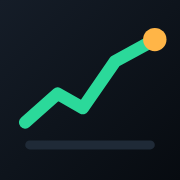
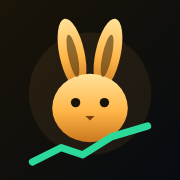
Rename to GoldRabbit, version in header, return audit (v2.9)
- New name and gold rabbit icon; version badge next to the name opens
  What's new
- Request Twelve Data history with adjust=splits so past prices aren't
  lowered for dividends (matches Yahoo price charts); falls back if the
  API rejects the option. Cached history reloads once.
- 'How these returns are calculated' card lists the exact start date
  and close behind 1W-5Y; returns still on Finnhub estimates show ≈
- Header fits a 390px screen; day range hidden when high equals low

Claude-Session: https://claude.ai/code/session_01RxR8VREVTMse4bbd87dQhJ

diff --git a/index.html b/index.html
@@ -6,12 +6,12 @@
 <meta name="apple-mobile-web-app-capable" content="yes">
 <meta name="mobile-web-app-capable" content="yes">
 <meta name="apple-mobile-web-app-status-bar-style" content="black-translucent">
-<meta name="apple-mobile-web-app-title" content="TickerDeck">
+<meta name="apple-mobile-web-app-title" content="GoldRabbit">
 <meta name="theme-color" content="#070B10">
 <link rel="apple-touch-icon" href="icon-180.png">
 <link rel="icon" href="icon-192.png">
 <link rel="manifest" href="manifest.json">
-<title>TickerDeck Live</title>
+<title>GoldRabbit</title>
 <link rel="preconnect" href="https://fonts.googleapis.com">
 <link rel="preconnect" href="https://fonts.gstatic.com" crossorigin>
 <link rel="stylesheet" href="https://fonts.googleapis.com/css2?family=Sora:wght@400;600;700;800&family=JetBrains+Mono:wght@400;600&display=swap">
@@ -41,8 +41,9 @@ button:focus-visible,input:focus-visible,select:focus-visible,a:focus-visible{ou
 .wrap>*{position:relative;z-index:1}
 
 header.top{display:flex;align-items:center;justify-content:space-between;gap:10px;padding-top:14px}
-.brand h1{margin:0;font-size:27px;font-weight:800;letter-spacing:-.03em;display:flex;align-items:center;gap:8px}
+.brand h1{margin:0;font-size:23px;font-weight:800;letter-spacing:-.03em;display:flex;align-items:center;gap:8px}
 .brand h1 span{color:var(--accent)}
+.hver{font:600 10.5px var(--mono);color:var(--muted);background:var(--panel2);border:1px solid var(--line);border-radius:6px;padding:2px 6px;letter-spacing:0;align-self:center}
 .live{font:700 10px var(--display);letter-spacing:.12em;padding:3px 7px;border-radius:6px;background:var(--panel2);color:var(--faint);border:1px solid var(--line);display:inline-flex;align-items:center;gap:5px}
 .live i{width:6px;height:6px;border-radius:50%;background:currentColor}
 .live.on{color:var(--gain);border-color:rgba(43,217,154,.35);background:var(--gain-bg)}
@@ -52,7 +53,8 @@ header.top{display:flex;align-items:center;justify-content:space-between;gap:10p
 .status{display:flex;align-items:center;gap:6px;font-size:12px;color:var(--muted);margin-top:3px}
 .dot{width:7px;height:7px;border-radius:50%;background:var(--faint);flex:none}
 .dot.open{background:var(--gain)} .dot.ext{background:var(--accent)}
-.hdr-actions{display:flex;gap:6px}
+.hdr-actions{display:flex;gap:5px}
+.hdr-actions .iconbtn{width:36px;height:36px}
 .iconbtn{width:40px;height:40px;border-radius:12px;background:var(--panel2);border:1px solid var(--line);display:grid;place-items:center;font-size:18px;flex:none}
 .iconbtn svg{width:19px;height:19px}
 .iconbtn.on{background:var(--accent);color:#1b1204;border-color:var(--accent)}
@@ -356,7 +358,7 @@ header.top{display:flex;align-items:center;justify-content:space-between;gap:10p
 <!-- onboarding -->
 <div class="wrap" id="onb" hidden>
   <div class="onb">
-    <h2>Ticker<span>Deck</span> Live</h2>
+    <h2>Gold<span>Rabbit</span></h2>
     <p class="hint" style="font-size:15px">Real-time stock prices that stream in while the app is open. It runs on a free market-data key from Finnhub, and the key stays on this phone.</p>
     <ol class="steps">
       <li><span>Open <a href="https://finnhub.io/register" target="_blank" rel="noopener">finnhub.io/register</a> and create a free account.</span></li>
@@ -368,7 +370,7 @@ header.top{display:flex;align-items:center;justify-content:space-between;gap:10p
       <button class="primary" type="submit">Start</button>
     </form>
     <p class="err" id="keyErr"></p>
-    <p class="hint">Tip: in Safari, tap Share, then <b>Add to Home Screen</b>, and TickerDeck opens full screen like an app.</p>
+    <p class="hint">Tip: in Safari, tap Share, then <b>Add to Home Screen</b>, and GoldRabbit opens full screen like an app.</p>
   </div>
 </div>
 
@@ -376,7 +378,7 @@ header.top{display:flex;align-items:center;justify-content:space-between;gap:10p
 <div class="wrap" id="app" hidden>
   <header class="top">
     <div class="brand">
-      <h1><span style="color:var(--text)">Ticker<span>Deck</span></span><em class="live" id="liveTag"><i></i><b id="liveTxt">OFF</b></em></h1>
+      <h1><span style="color:var(--text)">Gold<span>Rabbit</span></span><button class="hver" data-open-versions aria-label="Version and what's new" id="hVer">v</button><em class="live" id="liveTag"><i></i><b id="liveTxt">OFF</b></em></h1>
       <div class="status"><i class="dot" id="mktDot"></i><span id="mktText">Checking market…</span></div>
     </div>
     <div class="hdr-actions">
@@ -511,8 +513,11 @@ function td(syms,params){
   const run=async()=>{
     for(;;){ const now=Date.now(); while(tdLog.length&&now-tdLog[0]>61000) tdLog.shift(); if(tdLog.length+syms.length<=8) break; await sleep(61000-(now-tdLog[0])+250); }
     syms.forEach(()=>tdLog.push(Date.now()));
-    const r=await fetch(`${TD}/time_series?symbol=${syms.map(encodeURIComponent).join(",")}&${params}&country=United%20States&apikey=${encodeURIComponent(S.tdKey)}`);
-    const j=await r.json();
+    // adjust=splits: prices corrected for stock splits but not lowered for past dividends, matching
+    // Yahoo's price charts. If the API rejects an option, drop it and try again.
+    const url=()=>`${TD}/time_series?symbol=${syms.map(encodeURIComponent).join(",")}&${params}${S.noCountry?"":"&country=United%20States"}${S.noAdjust?"":"&adjust=splits"}&apikey=${encodeURIComponent(S.tdKey)}`;
+    let j=await (await fetch(url())).json();
+    for(let k=0;k<2&&j&&j.status==="error"&&/adjust|country/i.test(j.message||"");k++){ if(/adjust/i.test(j.message)) S.noAdjust=true; else S.noCountry=true; j=await (await fetch(url())).json(); }
     if(j&&j.status==="error"){ S.tdErr=j.code===401||j.code===403?"key":j.code===429?"rate":"other"; throw new Error(j.message); }
     S.tdErr=null; return syms.length===1?{[syms[0]]:j}:j; };
   const p=tdQueue.then(run,run); tdQueue=p.catch(()=>{}); return p;
@@ -521,11 +526,11 @@ function parseET(str){ const [d,t="16:00:00"]=str.split(" "); const [y,mo,dd]=d.
 const chunks=(a,n)=>{ const o=[]; for(let i=0;i<a.length;i+=n) o.push(a.slice(i,i+n)); return o; };
 async function loadDaily(force){
   if(!S.tdKey) return;
-  const need=[...new Set(["SPY"].concat(S.list,["QQQ"]))].filter(s=>force||!S.daily[s]||S.daily[s].day!==today()||!S.daily[s].v3);
+  const need=[...new Set(["SPY"].concat(S.list,["QQQ"]))].filter(s=>force||!S.daily[s]||S.daily[s].day!==today()||!S.daily[s].v4);
   for(const grp of chunks(need,8)){
     try{ const res=await td(grp,"interval=1day&outputsize=460");
       grp.forEach(s=>{ const r=res[s]; if(!okTD(r)) return;
-        S.daily[s]={day:today(),v3:1,c:r.values.map(v=>[parseET(v.datetime),+v.close,+v.volume||0]).reverse()}; });
+        S.daily[s]={day:today(),v4:1,c:r.values.map(v=>[parseET(v.datetime),+v.close,+v.volume||0]).reverse()}; });
       LS.set("daily",S.daily); render(); if(S.open&&S.daily[S.open]) redrawChart(true);
     }catch(e){ render(); if(S.tdErr==="key") return; }
   }
@@ -563,7 +568,7 @@ function shortSeries(s,range){
   let last=bars[bars.length-1][0]; (S.ticks[s]&&S.ticks[s].pts||[]).forEach(t=>{ if(t[0]>=last+step){ bars.push([t[0],t[1],0]); last=t[0]; } });
   if(p) bars.push([Math.max(Date.now(),last+1),p,0]);
   const t0=bars[0][0];
-  return {pts:bars.map((b,i)=>[t0+i*step,b[1],b[2]||0,b[0]]),base:bars[0][1],short:true};
+  return {pts:bars.map((b,i)=>[t0+i*step,b[1],b[2]||0,b[0]]),base:bars[0][1],baseT:bars[0][0],short:true};
 }
 async function loadShort(list,range){
   if(!S.tdKey) return;
@@ -581,7 +586,7 @@ function longSeries(s,range){
   if(range==="5y"&&i>0) i--;
   const pts=bars.slice(i).map(b=>[b[0],b[1],b[2]||0]), p=price(s);
   if(p) pts.push([Date.now(),p,0]);
-  return {pts,base:pts[0][1],long:true};
+  return {pts,base:pts[0][1],baseT:pts[0][0],long:true};
 }
 function seriesFor(s,range){
   if(range==="5y"||range==="all") return longSeries(s,range);
@@ -600,7 +605,7 @@ function seriesFor(s,range){
   const baseBar=i>0?c[i-1]:c[i];
   let pts=c.slice(i);
   if(p){ const last=pts[pts.length-1]; if(last&&new Date(last[0]).toDateString()===new Date().toDateString()) pts[pts.length-1]=[last[0],p,last[2]]; else pts.push([Date.now(),p,0]); }
-  return {pts:[baseBar].concat(pts),base:baseBar[1]};
+  return {pts:[baseBar].concat(pts),base:baseBar[1],baseT:baseBar[0]};
 }
 // without price history, connect Finnhub's return figures (1Y, 6M, 3M, YTD, MTD ago) into a coarse line
 function checkpoints(s,range){
@@ -981,6 +986,7 @@ function render(){
   $("wakeBtn").classList.toggle("on",!!S.wake);
   $("privBtn").classList.toggle("on",S.priv); $("privBtn").setAttribute("aria-pressed",S.priv);
   $("soundBtn").classList.toggle("on",S.sound); $("soundBtn").setAttribute("aria-pressed",S.sound);
+  const hv=$("hVer"); if(hv) hv.textContent="v"+APP_VERSION;
   renderLive(); renderBanners(); hero(); tape(); renderList(); renderHeat(); renderBoard(); renderFoot();
   document.querySelectorAll("#seg button").forEach(b=>b.setAttribute("aria-pressed",b.dataset.tf===S.tf));
   document.querySelectorAll(".viewtoggle button").forEach(b=>b.setAttribute("aria-pressed",b.dataset.view===S.view));
@@ -989,17 +995,30 @@ function render(){
 }
 
 /* ---------- detail ---------- */
-function rangeBar(lo,hi,v,label,id){ if(!(lo&&hi&&v!=null)) return ""; const pct=Math.max(0,Math.min(100,(v-lo)/(hi-lo)*100));
+function rangeBar(lo,hi,v,label,id){ if(!(lo&&hi&&v!=null)||hi<=lo) return ""; const pct=Math.max(0,Math.min(100,(v-lo)/(hi-lo)*100));
   return `<div class="range"><div class="range-lab"><span>${label}</span><span class="num" id="${id}P">${pct.toFixed(0)}% of range</span></div><div class="range-bar"><i id="${id}" style="left:${pct}%"></i></div><div class="range-lab num"><span>${fmt$(lo)}</span><span>${fmt$(hi)}</span></div></div>`; }
-function perfTiles(s){ return [["1D","1d"],[S.daily[s]?"1M":"MTD",S.daily[s]?"1m":"mtd"],["3M","3m"],["6M","6m"],["1Y","1y"]].map(([l,k])=>{const v=ret(s,k);return `<div><b>${l}</b><span class="num ${tcls(v)}">${fmtP(v)}</span></div>`;}).join(""); }
+function perfTiles(s){ return [["1D","1d"],[S.daily[s]?"1M":"MTD",S.daily[s]?"1m":"mtd"],["3M","3m"],["6M","6m"],["1Y","1y"]].map(([l,k])=>{const v=ret(s,k), est=k!=="1d"&&!S.daily[s]&&v!=null;return `<div><b>${l}</b><span class="num ${tcls(v)}">${est?"≈":""}${fmtP(v)}</span></div>`;}).join(""); }
+// where each return comes from: start date, start price, now, and the data source
+function retAudit(s){
+  const p=price(s); if(p==null) return "";
+  const rows=[["1W","1w"],["1M","1m"],["3M","3m"],["6M","6m"],["YTD","ytd"],["1Y","1y"],["5Y","5y"]].map(([l,k])=>{
+    const ser=seriesFor(s,k), v=ret(s,k);
+    if(ser&&ser.base&&ser.baseT&&!ser.approx) return `<div class="kv"><span>${l} · from ${fmt$(ser.base)} on ${new Date(ser.baseT).toLocaleDateString([], {month:"short",day:"numeric",year:"numeric"})}</span><b class="num ${tcls(v)}">${fmtP(v)}</b></div>`;
+    if(v!=null) return `<div class="kv"><span>${l} · ≈ Finnhub ${k==="6m"?"26-week":k==="1y"?"52-week":k==="3m"?"13-week":k==="ytd"?"year-to-date":""} figure</span><b class="num ${tcls(v)}">≈${fmtP(v)}</b></div>`;
+    return ""; }).join("");
+  return rows?`<div class="card"><h4>How these returns are calculated</h4>
+    <p class="hint">Current price ${fmt$(p)} compared with the closing price on the same calendar date in the past (the last close before it on weekends and holidays).</p>${rows}
+    <p class="hint" style="font-size:11.5px">Price change only, adjusted for stock splits, like Yahoo Finance charts. Yahoo's "Performance Overview" box adds dividends, so it reads slightly higher for dividend payers. ≈ means price history hasn't loaded yet and Finnhub's own figure is shown.</p></div>`:"";
+}
 function patchDetail(s){
   const p=price(s), q=S.quotes[s]; if(p==null) return;
   const big=$("dBig"); if(big){ const old=parseFloat(big.dataset.v); big.textContent=fmt$(p); big.dataset.v=p; if(old&&old!==p){ big.classList.remove("tu","td"); void big.offsetWidth; big.classList.add(p>old?"tu":"td"); setTimeout(()=>big.classList.remove("tu","td"),350);} }
   const r=r1d(s), pill=$("dPill"); if(pill){ pill.textContent=fmtP(r)+(marketState().phase==="open"?" today":" at close"); pill.className="pill "+cls(r); }
   const dx=$("dExt"); if(dx) dx.innerHTML=extDetail(s);
   const pf=$("dPerf"); if(pf) pf.innerHTML=perfTiles(s);
+  const au=$("dAudit"); if(au&&!S.scrubbing&&Date.now()-(au._t||0)>3000){ au._t=Date.now(); au.innerHTML=retAudit(s); }
   redrawChart(false);
-  const m=S.metric[s]&&S.metric[s].m||{}; const upd=(id,lo,hi)=>{ const el=$(id); if(el&&lo&&hi){ const pct=Math.max(0,Math.min(100,(p-lo)/(hi-lo)*100)); el.style.left=pct+"%"; $(id+"P").textContent=pct.toFixed(0)+"% of range"; } };
+  const m=S.metric[s]&&S.metric[s].m||{}; const upd=(id,lo,hi)=>{ const el=$(id); if(el&&lo&&hi&&hi>lo){ const pct=Math.max(0,Math.min(100,(p-lo)/(hi-lo)*100)); el.style.left=pct+"%"; $(id+"P").textContent=pct.toFixed(0)+"% of range"; } };
   upd("r52",m["52WeekLow"],m["52WeekHigh"]); if(q) upd("rDay",Math.min(q.l,p),Math.max(q.h,p));
   const pos=$("dPos"); if(pos) pos.innerHTML=posHTML(s);
 }
@@ -1019,6 +1038,7 @@ async function openDetail(s){
     <div class="perf" id="dPerf">${perfTiles(s)}</div>
     <div id="dAn" style="display:flex;flex-direction:column;gap:16px">${analyticsHTML(s)}</div>
     <div id="dSea">${seasonHTML(s)}</div>
+    <div id="dAudit">${retAudit(s)}</div>
     <div id="dDiv">${divHTML(s)}</div>
     <div style="display:grid;grid-template-columns:1fr auto;gap:8px"><a class="claude" id="askOne" href="${claudeURL(stockPrompt(s))}" target="_blank" rel="noopener">✨ Ask Claude about ${esc(s)}</a><button class="ghost" style="height:46px;border-radius:14px" data-compare="${esc(s)}">⇄ Compare</button></div>
     <div class="card">${rangeBar(q&&Math.min(q.l,p),q&&Math.max(q.h,p),p,"Day range","rDay")}${rangeBar(m["52WeekLow"],m["52WeekHigh"],p,"52-week range","r52")}
@@ -1177,13 +1197,13 @@ function summaryText(){
 }
 async function shareSummary(){
   const text=summaryText();
-  try{ if(navigator.share){ await navigator.share({title:"TickerDeck",text}); return; } }catch(e){ if(e&&e.name==="AbortError") return; }
+  try{ if(navigator.share){ await navigator.share({title:"GoldRabbit",text}); return; } }catch(e){ if(e&&e.name==="AbortError") return; }
   try{ await navigator.clipboard.writeText(text); toast("Summary copied"); }catch(e){ toast("Couldn't share on this device"); }
 }
 async function toggleWake(){
   if(S.wake){ S.wakeWant=false; try{ await S.wake.release(); }catch(e){} S.wake=null; toast("Screen can sleep again"); render(); return; }
   if(!("wakeLock" in navigator)){ toast("Keep-awake isn't supported on this device"); return; }
-  try{ S.wake=await navigator.wakeLock.request("screen"); S.wakeWant=true; S.wake.addEventListener("release",()=>{ S.wake=null; render(); }); toast("Screen stays on while TickerDeck is open"); }catch(e){ toast("Couldn't keep the screen on"); }
+  try{ S.wake=await navigator.wakeLock.request("screen"); S.wakeWant=true; S.wake.addEventListener("release",()=>{ S.wake=null; render(); }); toast("Screen stays on while GoldRabbit is open"); }catch(e){ toast("Couldn't keep the screen on"); }
   render();
 }
 function forget(){ $("tabbar").hidden=true; disconnect(); S.key=""; LS.set("key",""); showOnb(); }
@@ -1353,8 +1373,9 @@ function renderCompare(){
 }
 
 /* ---------- version history ---------- */
-const APP_VERSION="2.8";
+const APP_VERSION="2.9";
 const CHANGELOG=[
+  {v:"2.9",date:"2026-10-08",title:"GoldRabbit",items:["TickerDeck is now GoldRabbit, with a new icon","Version number shown next to the name; tap it for what's new","Price history requested split-adjusted only (no dividend adjustment) to match Yahoo Finance charts","New \"How these returns are calculated\" card on each stock shows the exact start date and price behind 1W to 5Y","≈ marks returns that are still Finnhub estimates while history loads"]},
   {v:"2.8",date:"2026-10-08",title:"Accurate long-range returns",items:["Price history now always comes from the US listing in US dollars; some tickers also trade abroad and could load the wrong market","1W to 5Y periods use the same calendar date (e.g. 6 months ago today) and compare to the close on that date, matching Yahoo Finance","5Y starts from the right week","Without the history key, returns no longer count the last day's move twice outside market hours","Cached history reloads once to pick up the fixes"]},
   {v:"2.7",date:"2026-10-08",title:"Pre-market and after hours",items:["Pre-market (4:00–9:30 AM ET) and after-hours (4:00–8:00 PM ET) prices shown separately under the regular close, like CNN","PRE / AH lines on every watchlist row and the index tiles","Pre-market and after-hours movers list on Home and in the daily briefing","Stock page shows the extended-hours price, change and time of the last trade","Turn it off in Settings"]},
   {v:"2.6",date:"2026-10-08",title:"More time frames everywhere",items:["AI, Space, Sectors and Trends pages now have 1D, 1W, 2W, 1M, 3M, 6M, YTD, 1Y, 5Y and All","Home watchlist adds 1W and 5Y","Shows how many stocks have loaded so far on each page","Missing prices retry automatically every 30 seconds","Solid bar behind the iPhone status bar when scrolling"]},
@@ -1367,12 +1388,12 @@ const CHANGELOG=[
   {v:"1.3",date:"2026-10-07",title:"Market context",items:["Live S&P 500, Nasdaq, Dow and Russell tiles","Big daily move alerts","Earnings calendar and market news","S&P 500 comparison line, insider trades, similar companies","Share summary, keep screen on, pull to refresh"]},
   {v:"1.2",date:"2026-10-07",title:"Trend line fix",items:["Mini charts draw a real trend that matches the return shown"]},
   {v:"1.1",date:"2026-10-07",title:"Price history",items:["1D to 1Y charts with touch scrubbing and volume (Twelve Data)","Exact 1M / 6M / 1Y / YTD returns from closing prices"]},
-  {v:"1.0",date:"2026-10-07",title:"TickerDeck Live",items:["Real-time prices streamed from Finnhub","Watchlist with add, remove, sort, heatmap and leaderboard","Price alerts, holdings and cost basis, market clock with holidays","Logos, analyst ratings, news and installable iPhone app"]}
+  {v:"1.0",date:"2026-10-07",title:"First release (as TickerDeck Live)",items:["Real-time prices streamed from Finnhub","Watchlist with add, remove, sort, heatmap and leaderboard","Price alerts, holdings and cost basis, market clock with holidays","Logos, analyst ratings, news and installable iPhone app"]}
 ];
 function openVersions(){
   S.open="__versions";
   $("sheetIn").innerHTML=`<div class="grab"></div>
-    <div class="d-head"><div><h3>What's new</h3><p>TickerDeck v${APP_VERSION}</p></div><button class="iconbtn close" data-close aria-label="Close">✕</button></div>
+    <div class="d-head"><div><h3>What's new</h3><p>GoldRabbit v${APP_VERSION}</p></div><button class="iconbtn close" data-close aria-label="Close">✕</button></div>
     <div class="card" style="gap:0">${CHANGELOG.map(c=>`<div class="ver"><div style="display:flex;align-items:center;gap:8px;flex-wrap:wrap"><span class="vtag">v${c.v}</span><b>${esc(c.title)}</b><span class="hint" style="margin-left:auto">${new Date(c.date+"T12:00:00").toLocaleDateString([], {month:"short",day:"numeric",year:"numeric"})}</span></div><ul>${c.items.map(i=>`<li>${esc(i)}</li>`).join("")}</ul></div>`).join("")}</div>
     <a class="hint" href="https://github.com/WolfTronixSD/tickerdeck/commits/main" target="_blank" rel="noopener" style="color:var(--accent)">Full change history on GitHub ↗</a>`;
   LS.set("seenVer",APP_VERSION); renderBanners(); showSheet();
@@ -1384,10 +1405,10 @@ const MONTHS=["Jan","Feb","Mar","Apr","May","Jun","Jul","Aug","Sep","Oct","Nov",
 S.weekly=LS.get("weekly",{});
 async function loadWeekly(list){
   if(!S.tdKey) return;
-  const need=list.filter(x=>!S.weekly[x]||S.weekly[x].day!==today()||!S.weekly[x].v3);
+  const need=list.filter(x=>!S.weekly[x]||S.weekly[x].day!==today()||!S.weekly[x].v4);
   for(const grp of chunks(need,8)){
     try{ const res=await td(grp,"interval=1week&outputsize=265");
-      grp.forEach(x=>{ const r=res[x]; if(okTD(r)) S.weekly[x]={day:today(),v3:1,bars:r.values.map(v=>[parseET(v.datetime),+v.close,+v.volume||0]).reverse()}; });
+      grp.forEach(x=>{ const r=res[x]; if(okTD(r)) S.weekly[x]={day:today(),v4:1,bars:r.values.map(v=>[parseET(v.datetime),+v.close,+v.volume||0]).reverse()}; });
       try{ LS.set("weekly",S.weekly); }catch(e){}
       if(S.tab==="home"&&!S.open) render(); else scheduleTab();
     }catch(e){ if(S.tdErr==="key") return; }
@@ -1395,13 +1416,13 @@ async function loadWeekly(list){
 }
 async function loadMonthly(list){
   if(!S.tdKey) return;
-  const need=list.filter(x=>!S.monthly[x]||!S.monthly[x].bars||!S.monthly[x].v3||Date.now()-S.monthly[x].at>20*864e5);
+  const need=list.filter(x=>!S.monthly[x]||!S.monthly[x].bars||!S.monthly[x].v4||Date.now()-S.monthly[x].at>20*864e5);
   for(const grp of chunks(need,8)){
     try{ const res=await td(grp,"interval=1month&outputsize=5000");
       grp.forEach(x=>{ const r=res[x]; if(!okTD(r)) return;
         const v=r.values.slice().reverse(), rets=[]; const nowKey=today().slice(0,7);
         for(let i=1;i<v.length;i++){ const ym=v[i].datetime.slice(0,7); if(ym===nowKey) continue; rets.push([+ym.slice(0,4),+ym.slice(5,7)-1,(+v[i].close/+v[i-1].close-1)*100]); }
-        S.monthly[x]={at:Date.now(),v3:1,rets,bars:v.map(b=>[parseET(b.datetime),+(+b.close).toPrecision(6),Math.round(+b.volume||0)])}; });
+        S.monthly[x]={at:Date.now(),v4:1,rets,bars:v.map(b=>[parseET(b.datetime),+(+b.close).toPrecision(6),Math.round(+b.volume||0)])}; });
       try{ LS.set("monthly",S.monthly); }catch(e){}
       if(S.tab==="home"&&!S.open&&S.tf==="all") render(); else scheduleTab();
       renderSeasonHome(); if(S.open&&S.monthly[S.open]){ const el=$("dSea"); if(el) el.innerHTML=seasonHTML(S.open); }
@@ -1597,10 +1618,10 @@ async function ensureData(list,{daily=false,gen=null}={}){
   const need=list.filter(s=>{ const q=S.quotes[s]; return !q||!q.at||Date.now()-q.at>120000; });
   for(const s of need){ if(!live()) return; await loadQuote(s); if(S.quotes[s]) S.quotes[s].at=Date.now(); scheduleTab(); }
   for(const s of list){ if(!live()) return; if(!loading[s]){ loading[s]=1; await loadStatic(s,{metric:!S.tdKey}); loading[s]=0; scheduleTab(); } }
-  if(daily&&S.tdKey){ const nd=list.filter(s=>!S.daily[s]||S.daily[s].day!==today()||!S.daily[s].v3);
-    for(const grp of chunks(nd,8)){ if(!live()) return; try{ const res=await td(grp,"interval=1day&outputsize=460"); grp.forEach(s=>{ const r=res[s]; if(okTD(r)) S.daily[s]={day:today(),v3:1,c:r.values.map(v=>[parseET(v.datetime),+v.close,+v.volume||0]).reverse()}; }); try{LS.set("daily",S.daily);}catch(e){} scheduleTab(); }catch(e){ if(S.tdErr==="key") break; } } }
+  if(daily&&S.tdKey){ const nd=list.filter(s=>!S.daily[s]||S.daily[s].day!==today()||!S.daily[s].v4);
+    for(const grp of chunks(nd,8)){ if(!live()) return; try{ const res=await td(grp,"interval=1day&outputsize=460"); grp.forEach(s=>{ const r=res[s]; if(okTD(r)) S.daily[s]={day:today(),v4:1,c:r.values.map(v=>[parseET(v.datetime),+v.close,+v.volume||0]).reverse()}; }); try{LS.set("daily",S.daily);}catch(e){} scheduleTab(); }catch(e){ if(S.tdErr==="key") break; } } }
 }
-async function ensureDaily(s){ const done=()=>{ if(S.open===s) renderTargets(s); }; if(!S.tdKey||(S.daily[s]&&S.daily[s].day===today()&&S.daily[s].v3)) return; await ensureData([s],{daily:true}); if(S.open===s){ redrawChart(true); const an=$("dAn"); if(an) an.innerHTML=analyticsHTML(s); done(); } }
+async function ensureDaily(s){ const done=()=>{ if(S.open===s) renderTargets(s); }; if(!S.tdKey||(S.daily[s]&&S.daily[s].day===today()&&S.daily[s].v4)) return; await ensureData([s],{daily:true}); if(S.open===s){ redrawChart(true); const an=$("dAn"); if(an) an.innerHTML=analyticsHTML(s); const au=$("dAudit"); if(au) au.innerHTML=retAudit(s); const pf=$("dPerf"); if(pf) pf.innerHTML=perfTiles(s); done(); } }
 function setActiveSubs(){
   const want=new Set(tabSyms(S.tab));
   S.extra.forEach(s=>{ if(!want.has(s)&&!S.list.includes(s)&&!IDX.some(x=>x[0]===s)) subscribe(s,false); });

diff --git a/sw.js b/sw.js
@@ -1,5 +1,5 @@
 // App shell cache: network first so updates show up, cache as offline fallback.
-const CACHE = "tickerdeck-v13";
+const CACHE = "goldrabbit-v14";
 const SHELL = ["./", "index.html", "manifest.json", "icon-180.png", "icon-192.png", "icon-512.png"];
 self.addEventListener("install", e => { e.waitUntil(caches.open(CACHE).then(c => c.addAll(SHELL))); self.skipWaiting(); });
 self.addEventListener("activate", e => { e.waitUntil(caches.keys().then(ks => Promise.all(ks.filter(k => k !== CACHE).map(k => caches.delete(k))))); self.clients.claim(); });

diff --git a/README.md b/README.md
@@ -1,6 +1,6 @@
-# TickerDeck Live
+# GoldRabbit
 
-A real-time stock watchlist for iPhone. Prices stream from [Finnhub](https://finnhub.io) while the app is open.
+GoldRabbit (formerly TickerDeck) is a real-time stock watchlist for iPhone. Prices stream from [Finnhub](https://finnhub.io) while the app is open.
 
 **Open it:** https://wolftronixsd.github.io/tickerdeck/
 
